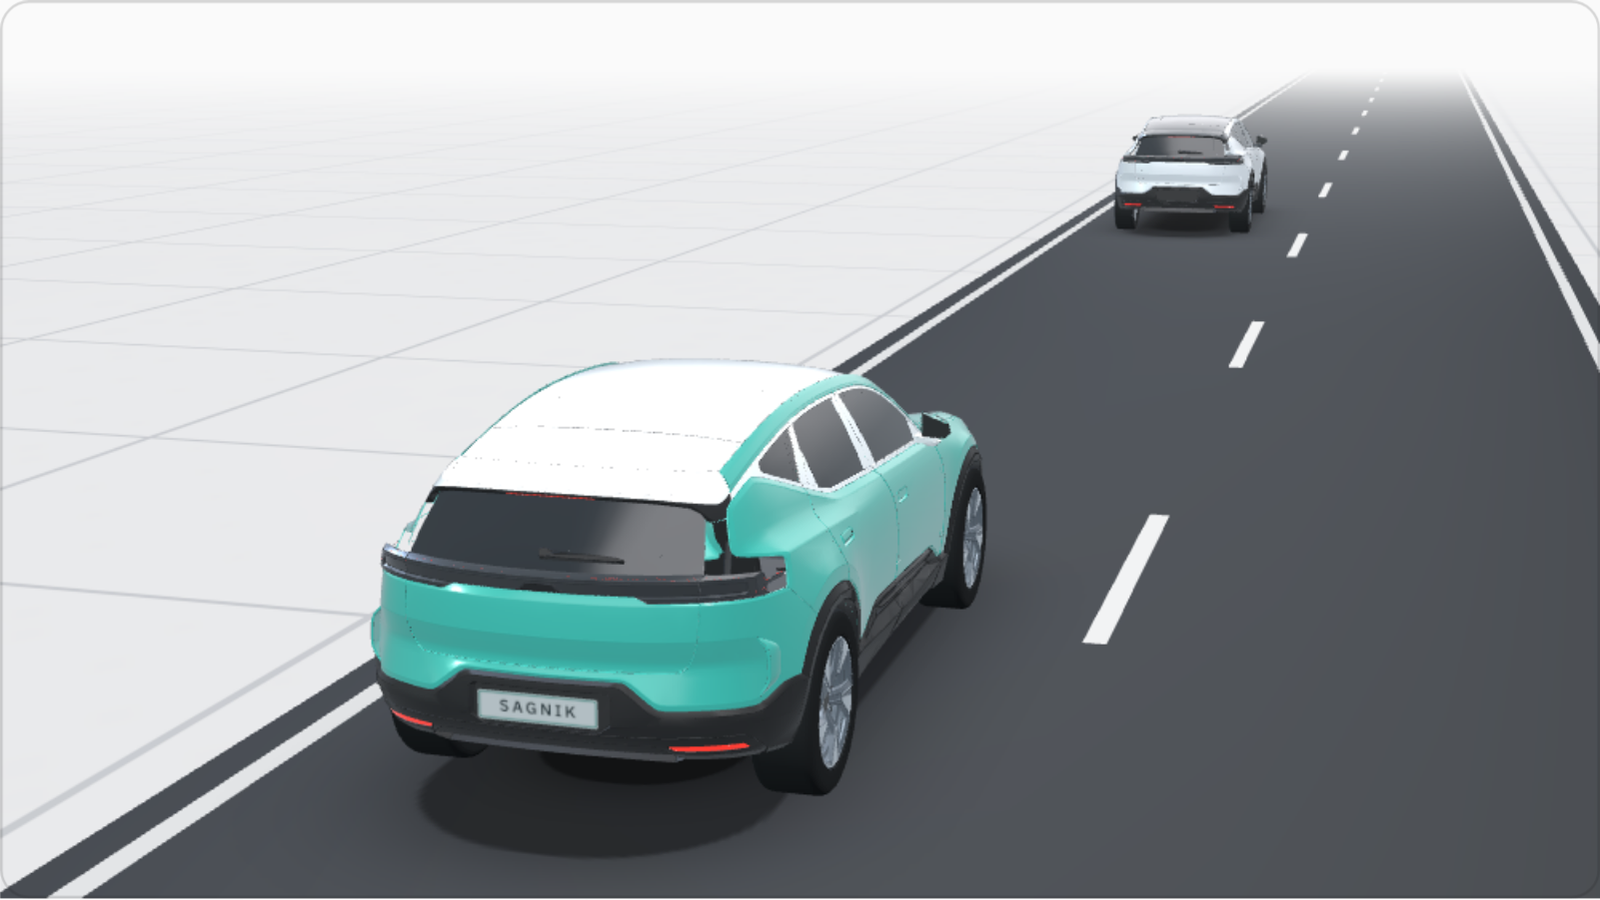
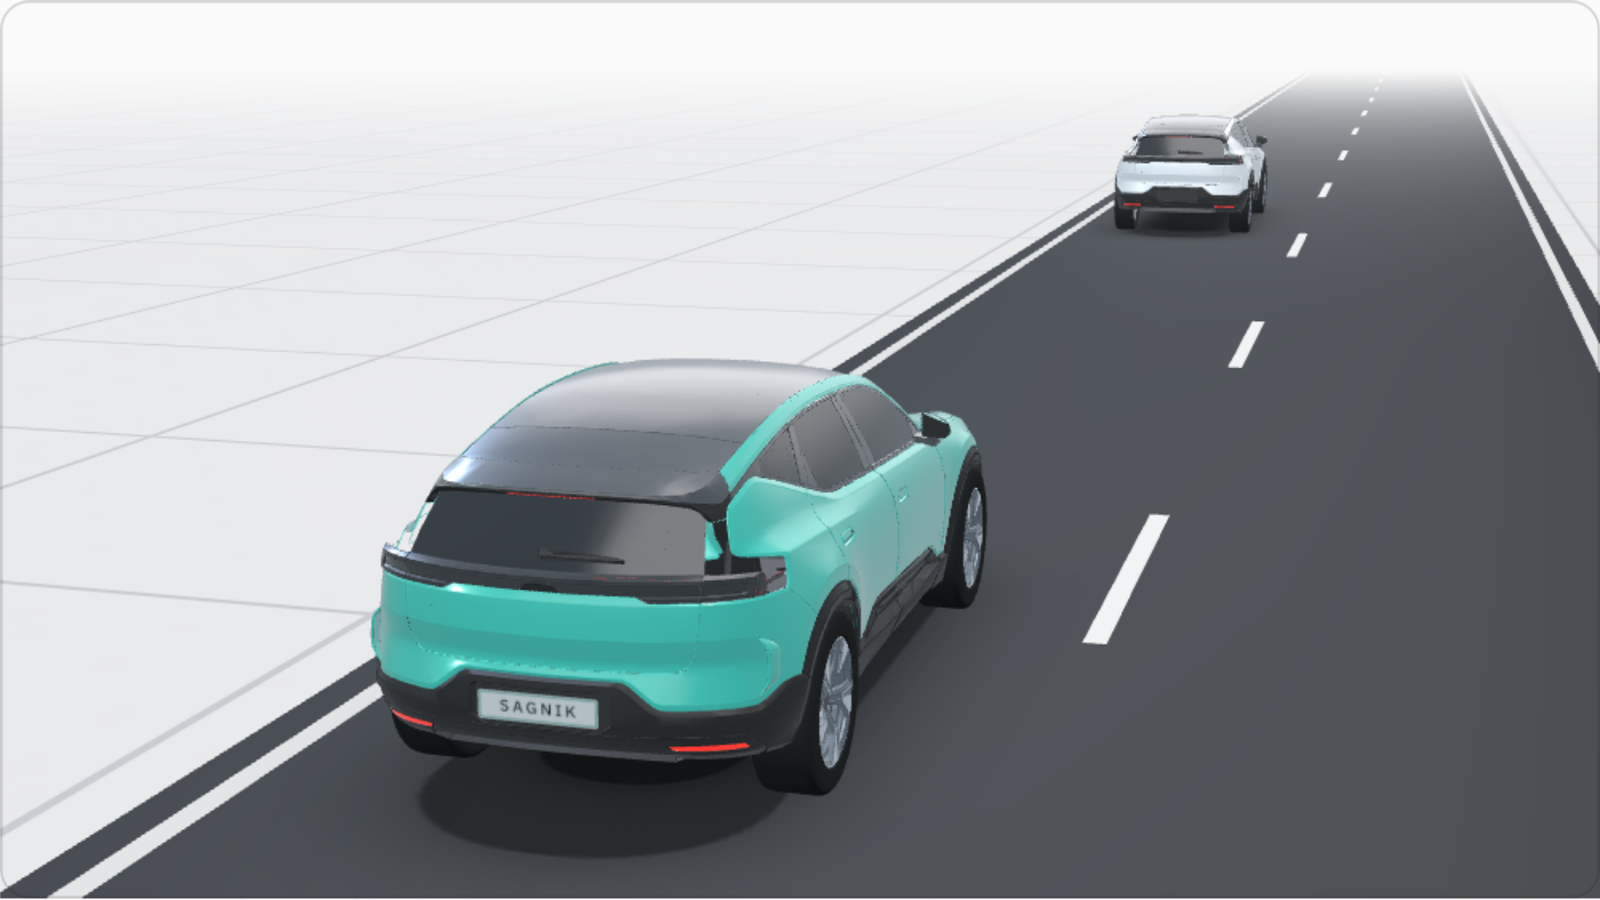
Round V fix: ours keeps the original dark glass/black roof, no white roof parts
The white roof colour on our car spilled onto the tailgate and rear glass
and looked jagged from the rear 3/4 camera. Ours is now teal paint with the
same dark roof and glass as the lead; the lead stays white. Stills
re-rendered. Results untouched.

Claude-Session: https://claude.ai/code/session_01TpFRrNyxWTtr25N1JZfZSR

Changed region(s): [[0.25, 0.3733, 0.5938, 0.56]]

diff --git a/home_scene.js b/home_scene.js
@@ -391,7 +391,7 @@
       if (!MODELDATA || api.model) return;
       scene.remove(lead.g); scene.remove(ours.g);
       CAR = CARS.model; CARL = CAR.len; HALF = CARL / 2;
-      lead = makeModelCar({ body: 0xc9d0d5, roof: 0x2b3136 }, false); ours = makeModelCar({ body: P_.dark ? 0x1fb5a5 : 0x14a193, roof: 0xe9eff0 }, true);
+      lead = makeModelCar({ body: 0xc9d0d5, roof: 0x2b3136 }, false); ours = makeModelCar({ body: P_.dark ? 0x1fb5a5 : 0x14a193, roof: 0x2b3136 }, true);
       scene.add(lead.g, ours.g); ours.g.add(inner); buildInner(); api.ours = ours; api.lead = lead; api.model = true; cs.fresh = 1;
     }
 
